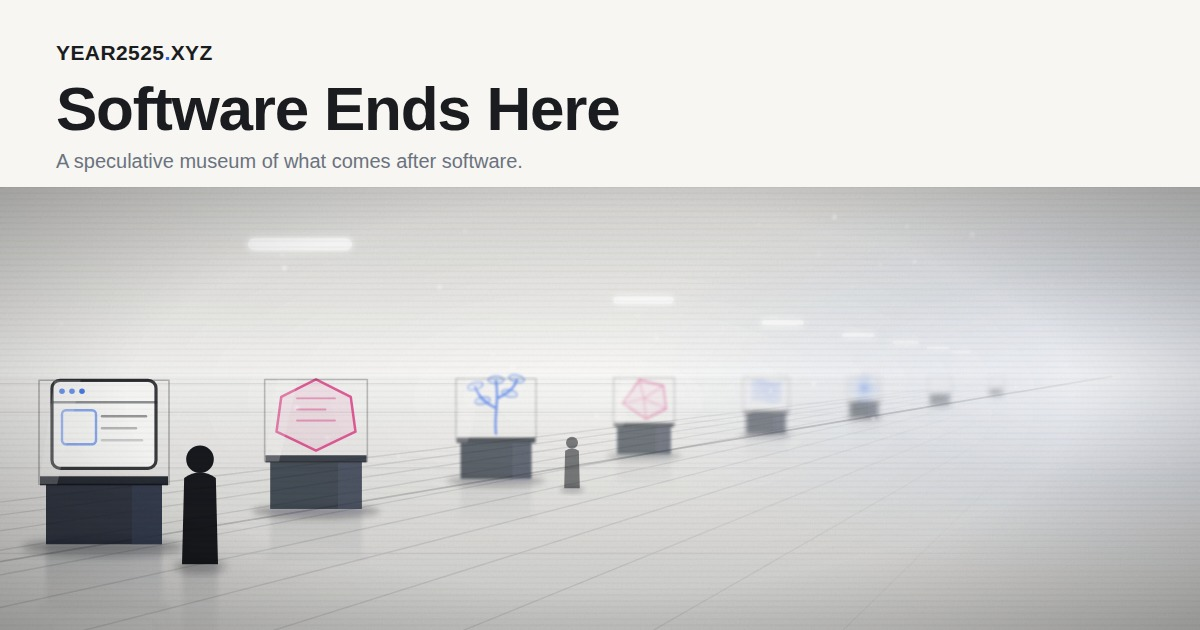
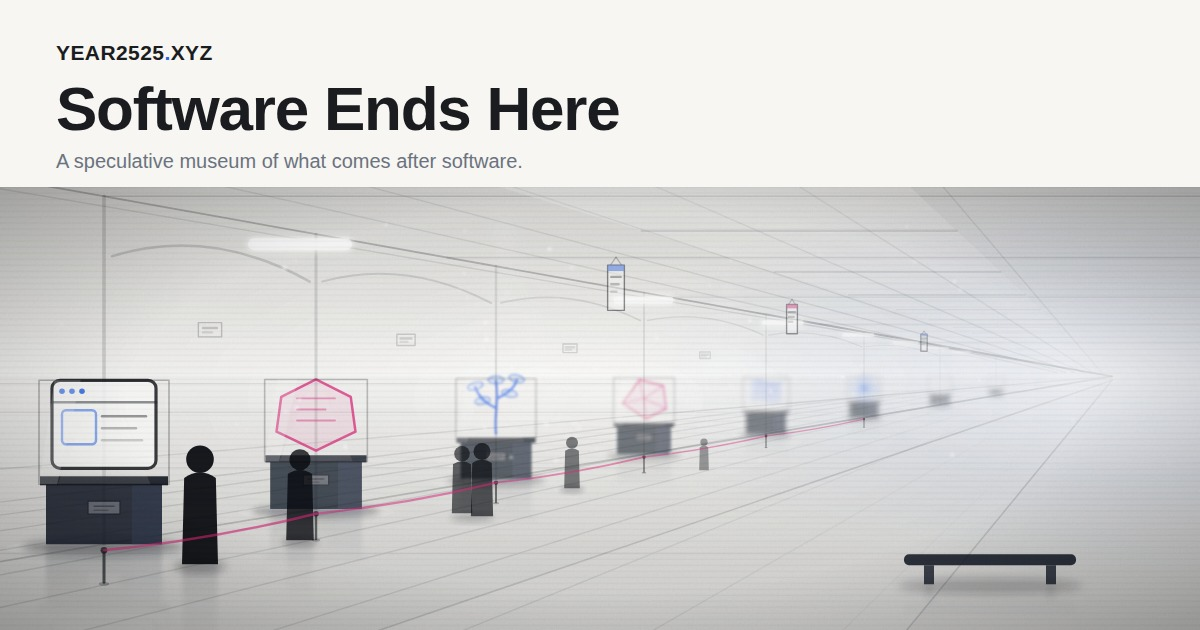
Give the Long Gallery its architecture
The entrance diorama implied a room and drew only a floor: eight cases,
a lamp strip, two figures, and a void where the building should be.
This builds the building.

A coffered ceiling now runs overhead — rays down the gallery axis,
transverse beams bunching toward the horizon — under a skylight strip
ribbed on the same curve, which is where the light was coming from all
along. The left wall gets a cornice with its moulding line, a dado
rail, a pilaster over every station and an arched bay between each
pair, with a placard centred in the nearer bays. A walkway inlay runs
up the middle of the floor, and two volumetric shafts fall from the
skylight through fresh dust.

The museum furniture arrives: a stanchion cordon strung with a single
sagging rope along the case side, drawn over the crowd because it is
nearer; an empty bench in the near right; a light pool and a lamp cone
inside every case; a label plate on each plinth close enough to read.
Visitors now stand at four depths instead of two — one at a case, a
pair mid-gallery, one nearly dissolved — so the recession reads in
bodies as well as vitrines.

Everything derives from the one perspective factor the stations
already used, so depth remains the only fact that decides how present
a thing is. Same palette, same theme variables, same deterministic
seed, same crop-safe band.

og.jpg is regenerated from tools/og-card.html per its own
instructions, since the link-preview card is composed from this scene
[…]

diff --git a/js/artwork.js b/js/artwork.js
@@ -370,8 +370,16 @@
        solid, a weather system, and finally a thing with no edges left. The
        dissolution is literally perspective — each station is smaller,
        paler, softer and less object-like than the one in front of it,
-       until the far end is only light. A visitor at the near end fixes the
-       scale, and the polished floor doubles everything.
+       until the far end is only light.
+
+       The room is built, not implied: a coffered ceiling with a skylight
+       strip running its length, an arched left wall carrying a pilaster
+       over every station and a placard in every near bay, a walkway inlay
+       up the middle of the polished floor, a stanchion cordon along the
+       cases, a bench, and visitors at four depths to fix the scale. Two
+       volumetric shafts fall from the skylight through the dust. Every
+       piece derives from the same perspective factor, so a thing's
+       distance is the only fact that decides how present it is.
 
        This shares the grammar of the other nine scenes but runs high-key,
        like PRESENT: the intro sits inside the light present-day era and
@@ -407,6 +415,80 @@
       }));
       keyLight(sc, "key", VP.x, VP.y, 250, "var(--accent)", 0.20);
 
+      // Shared perspective helpers. Everything in the room — stations,
+      // pilasters, rail posts, banner hangs — derives from this one scale
+      // factor, so a thing's depth decides everything else about it.
+      function S(x) { return (VP.x - x) / (VP.x - NEAR_X); }
+      function wallBase(x) { return VP.y + (NEAR_BASE - VP.y) * S(x); }
+      function wallTop(x) { return VP.y - (VP.y - 14) * S(x); }
+      // Station positions, needed this early because the wall ranges its
+      // pilasters on them.
+      var XS = [52, 158, 248, 322, 383, 432, 470, 498];
+
+      // Coffered ceiling: rays running down the gallery axis, transverse
+      // beams bunching toward the horizon, each beam's left end landing
+      // exactly on the cornice where the wall takes over.
+      var coffer = group({ stroke: "var(--fg)" });
+      for (var cg = 0; cg <= 500; cg += 90) {
+        coffer.appendChild(line(cg, -16, VP.x + (cg - VP.x) * 0.05, VP.y - 2, { opacity: 0.09, "stroke-width": 0.7 }));
+      }
+      [1.0, 0.66, 0.44, 0.29, 0.19].forEach(function (bs) {
+        coffer.appendChild(line(VP.x - (VP.x - NEAR_X) * bs, VP.y - (VP.y - 14) * bs, W + 20, VP.y - (VP.y - 14) * bs, {
+          opacity: 0.13 * bs + 0.03, "stroke-width": 0.7
+        }));
+      });
+      sc.add(coffer);
+
+      // A skylight strip running the length of the room — the light the
+      // lamps only supplement — ribbed on the same bunching curve.
+      sc.add(polygon(pts(["168,-16", "428,-16", VP.x + "," + VP.y]), {
+        fill: sc.linear("skyl", 0, -16, 0, VP.y, [
+          [0, "#ffffff", 0.30], [0.7, "#ffffff", 0.10], [1, "#ffffff", 0]
+        ], true), stroke: "none", style: "mix-blend-mode:screen"
+      }));
+      var ribs = group({ stroke: "var(--fg)" });
+      for (var ri = 1; ri < 9; ri++) {
+        var rs = 1 / (1 + (ri / 8) * 5.2);
+        ribs.appendChild(line(
+          VP.x - (VP.x - 168) * rs, VP.y - (VP.y + 16) * rs,
+          VP.x - (VP.x - 428) * rs, VP.y - (VP.y + 16) * rs,
+          { opacity: 0.15 * rs + 0.02, "stroke-width": 1.5 * rs + 0.3 }
+        ));
+      }
+      sc.add(ribs);
+
+      // The left wall itself: a cornice doubled by a moulding line, a dado
+      // rail at hip height, a pilaster rising over every station and an
+      // arched bay between each pair, with a placard centred in the nearer
+      // bays. This is what makes it architecture instead of a void.
+      var wall = group({ stroke: "var(--fg)" });
+      wall.appendChild(line(0, wallTop(0), VP.x, VP.y, { opacity: 0.26, "stroke-width": 0.9 }));
+      wall.appendChild(line(0, wallTop(0) + 5.5, VP.x, VP.y, { opacity: 0.11, "stroke-width": 0.7 }));
+      wall.appendChild(line(0, VP.y + (146 - VP.y) * S(0), VP.x, VP.y, { opacity: 0.10, "stroke-width": 0.7 }));
+      function spring(x) { return VP.y - (VP.y - 44) * S(x); }
+      XS.forEach(function (px2, pi) {
+        var ps = S(px2);
+        wall.appendChild(line(px2, wallBase(px2), px2, wallTop(px2), {
+          opacity: 0.13 * ps + 0.03, "stroke-width": 1.5 * ps + 0.3
+        }));
+        if (pi >= XS.length - 1) return;
+        var qx = XS[pi + 1], mx = (px2 + qx) / 2, ms = S(mx);
+        wall.appendChild(path(
+          "M" + (px2 + 4 * ps) + " " + spring(px2) +
+          " Q" + mx + " " + (VP.y - (VP.y - 20) * ms) + " " + (qx - 4 * S(qx)) + " " + spring(qx),
+          { opacity: 0.15 * ms + 0.03, "stroke-width": 1.1 * ms + 0.3 }
+        ));
+        if (pi < 4) {
+          var lw = 13 * ms, lh = 8 * ms, ly2 = VP.y - (VP.y - 74) * ms;
+          wall.appendChild(rect(mx - lw / 2, ly2, lw, lh, {
+            fill: "var(--bg2)", "fill-opacity": 0.35, opacity: 0.2 * ms + 0.04, "stroke-width": 0.7
+          }));
+          wall.appendChild(line(mx - lw * 0.3, ly2 + lh * 0.38, mx + lw * 0.3, ly2 + lh * 0.38, { opacity: 0.22 * ms }));
+          wall.appendChild(line(mx - lw * 0.3, ly2 + lh * 0.68, mx + lw * 0.08, ly2 + lh * 0.68, { opacity: 0.15 * ms }));
+        }
+      });
+      sc.add(wall);
+
       // Converging floor lines. Transverse spacing is squared so the
       // courses bunch toward the horizon instead of marching evenly.
       var grid = group({ opacity: 0.12, "stroke-width": 0.7, stroke: "var(--fg)" });
@@ -439,7 +521,16 @@
         stroke: "var(--fg)", "stroke-width": 0.9, opacity: 0.2
       }));
 
-      // A receding run of ceiling lamps: the reason there is light here.
+      // The visitors' walkway: a lighter inlay strip up the middle of the
+      // floor, edged — so the room has a route, not just a surface.
+      sc.add(polygon(pts(["128," + (H + 12), "436," + (H + 12), VP.x + "," + (VP.y + 2)]), {
+        fill: sc.linear("walk", 0, H, 0, VP.y, [[0, "#ffffff", 0.10], [1, "#ffffff", 0]], true),
+        stroke: "none", style: "mix-blend-mode:screen"
+      }));
+      sc.add(line(128, H + 12, VP.x, VP.y + 2, { stroke: "var(--fg)", opacity: 0.15, "stroke-width": 0.8 }));
+      sc.add(line(436, H + 12, VP.x, VP.y + 2, { stroke: "var(--fg)", opacity: 0.15, "stroke-width": 0.8 }));
+
+      // A receding run of ceiling lamps, supplementing the skylight.
       var lamps = group({ filter: sc.bloom("lamp", 1.8) });
       for (var li = 0; li < 7; li++) {
         var lt = li / 6;
@@ -452,6 +543,11 @@
       }
       sc.add(lamps);
 
+      // Two volumetric shafts from the skylight, made visible by the dust
+      // they fall through, pooling on the walkway between stations.
+      shaft(sc, "shaft1", [252, 20], [216, 178], [300, 178], "#ffffff", 0.13, 4);
+      shaft(sc, "shaft2", [364, 46], [336, 162], [396, 162], "#ffffff", 0.09, 3);
+
       /* -- the six stations ------------------------------------------------
          One vitrine per successor state. Scale, baseline height, ink and
          blur all derive from the same perspective factor, so a station's
@@ -459,8 +555,9 @@
       // The last two hold nothing: the gallery keeps going past the point
       // where this page can name what is in the cases.
       var KINDS = ["app", "law", "grow", "fold", "weather", "hum", "gone", "gone"];
-      var XS = [52, 158, 248, 322, 383, 432, 470, 498];
+      // XS is declared above, where the wall ranges its pilasters on it.
       var built = [];
+      var pools = group({ style: "mix-blend-mode:screen" });
 
       KINDS.forEach(function (kind, i) {
         var x = XS[i];
@@ -476,12 +573,31 @@
 
         var pw = 58 * s, ph = 30 * s, px0 = x - pw / 2;
         var top = base - ph;                              // the plinth's top face
+        // The case's size, fixed here so its light cone can be drawn
+        // under the object it illuminates.
+        var gh = 52 * s, gw = pw + 7 * s, gx0 = x - gw / 2;
+        pools.appendChild(ellipse(x, base + 2 * s, pw * 0.85, 5 * s, {
+          fill: "#ffffff", stroke: "none", opacity: 0.12 * s + 0.02
+        }));
         g.appendChild(ellipse(x, base + 1.5 * s, pw * 0.7, 4.5 * s, {
           fill: "#0d1018", stroke: "none", opacity: 0.3, filter: sc.blur("cs" + i, 1.8 * s + 0.4)
         }));
         g.appendChild(rect(px0, top, pw, ph, solid("#131926", 0.86)));
         g.appendChild(rect(px0 + pw * 0.74, top, pw * 0.26, ph, solid("#39445a", 0.5)));
         g.appendChild(rect(px0 - 3 * s, top - 4 * s, pw + 6 * s, 4.5 * s, solid("#080c16", 0.9)));
+        // The case's own lamp: a cone behind the object it lights.
+        g.appendChild(polygon(pts([
+          (x - 3 * s) + "," + (top - gh + 2 * s), (x + 3 * s) + "," + (top - gh + 2 * s),
+          (x + pw * 0.4) + "," + top, (x - pw * 0.4) + "," + top
+        ]), { fill: "#ffffff", stroke: "none", opacity: 0.10, style: "mix-blend-mode:screen" }));
+        // A label plate on the plinth face, for stations near enough to read.
+        if (s > 0.4) {
+          g.appendChild(rect(x - 8 * s, top + ph * 0.28, 16 * s, 6.5 * s, {
+            fill: "var(--bg2)", "fill-opacity": 0.5, stroke: "var(--fg)", "stroke-width": 0.6, opacity: 0.55
+          }));
+          g.appendChild(line(x - 5 * s, top + ph * 0.28 + 2.6 * s, x + 5 * s, top + ph * 0.28 + 2.6 * s, { stroke: "var(--fg)", opacity: 0.45, "stroke-width": 0.7 }));
+          g.appendChild(line(x - 5 * s, top + ph * 0.28 + 4.6 * s, x + 2 * s, top + ph * 0.28 + 4.6 * s, { stroke: "var(--fg)", opacity: 0.3, "stroke-width": 0.7 }));
+        }
 
         // Every era's hero object is authored in the same local box — 46
         // tall, ±26 wide, sitting on y=0 — then placed by the plinth's top
@@ -541,7 +657,6 @@
 
         // The case, over the object. This is what makes it a museum and
         // not a shelf — and losing it further down the row is the point.
-        var gh = 52 * s, gw = pw + 7 * s, gx0 = x - gw / 2;
         g.appendChild(rect(gx0, top - gh, gw, gh, {
           fill: "var(--bg2)", "fill-opacity": 0.14, stroke: "var(--fg)", "stroke-width": 0.8, opacity: 0.3
         }));
@@ -553,13 +668,41 @@
         built.push({ g: g, base: base, s: s });
       });
 
-      // Reflections first so they sit under every station, each mirrored
-      // about its own baseline rather than one shared floor line.
+      // Light pools under the cases go down first, then reflections, so
+      // both sit under every station. Each reflection is mirrored about
+      // its own baseline rather than one shared floor line.
+      sc.add(pools);
       built.forEach(function (b, i) {
         reflect(sc, "r" + i, b.g, b.base, 46 * b.s + 10, 0.16 * b.s + 0.05, 1.1);
       });
       // Then the stations themselves, far to near, so nearer ones occlude.
       for (var k = built.length - 1; k >= 0; k--) sc.add(built[k].g);
+
+      // Hanging banners over the walkway, receding with everything else —
+      // the exhibition's own signage, saying nothing legible.
+      [308, 396, 462].forEach(function (bx, bi) {
+        var bs2 = S(bx);
+        var bt = VP.y - (VP.y + 14) * bs2;
+        var bw = 17 * bs2, bh = 46 * bs2;
+        var bn = group({ opacity: 0.35 + 0.55 * bs2 });
+        bn.appendChild(line(bx - bw * 0.33, bt + 5 * bs2, bx, bt - 3 * bs2, { stroke: "var(--fg)", opacity: 0.4, "stroke-width": 0.6 }));
+        bn.appendChild(line(bx + bw * 0.33, bt + 5 * bs2, bx, bt - 3 * bs2, { stroke: "var(--fg)", opacity: 0.4, "stroke-width": 0.6 }));
+        bn.appendChild(rect(bx - bw / 2, bt + 5 * bs2, bw, bh, {
+          fill: "var(--bg2)", "fill-opacity": 0.8, stroke: "var(--fg)", "stroke-width": 0.7, opacity: 0.8
+        }));
+        bn.appendChild(rect(bx - bw / 2, bt + 5 * bs2, bw, 6 * bs2, {
+          fill: bi === 1 ? "var(--accent2)" : "var(--accent)", "fill-opacity": 0.7, stroke: "none"
+        }));
+        for (var gl = 0; gl < 3; gl++) {
+          bn.appendChild(line(bx - bw * 0.28, bt + (17 + gl * 7.5) * bs2, bx + bw * (0.28 - 0.13 * gl), bt + (17 + gl * 7.5) * bs2, {
+            stroke: "var(--fg)", opacity: 0.5 - gl * 0.12
+          }));
+        }
+        sc.add(bn);
+      });
+
+      // Dust hanging where the shafts make it visible.
+      motes(sc, 24, 212, 40, 302, 172, "#ffffff", 1.3);
 
       // The far end, erased. Everything within reach of the vanishing
       // point loses its edges to the light it is receding into.
@@ -569,15 +712,54 @@
         ]), stroke: "none"
       }));
 
-      // Two visitors, for scale. Without them the vitrines could be any
-      // size at all, and the gallery stops being a room.
+      // Visitors at four depths, for scale: one near, fixing the size of
+      // everything; one stopped at a case; a pair mid-gallery; and two
+      // nearly dissolved into the far light.
       var near = figure(100, 198, 60, { opacity: 0.92 });
       sc.add(ellipse(100, 199, 13, 3.4, { fill: "#0d1018", stroke: "none", opacity: 0.28, filter: sc.blur("f1s", 2) }));
       reflect(sc, "fr1", near, 198, 44, 0.16, 1.2);
       sc.add(near);
+      var atCase = figure(150, 186, 46, { opacity: 0.78 });
+      sc.add(ellipse(150, 186.8, 9, 2.4, { fill: "#0d1018", stroke: "none", opacity: 0.24, filter: sc.blur("f3s", 1.6) }));
+      reflect(sc, "fr3", atCase, 186, 32, 0.13, 1.2);
+      sc.add(atCase);
+      sc.add(ellipse(236, 174.8, 11, 2.2, { fill: "#0d1018", stroke: "none", opacity: 0.2, filter: sc.blur("f4s", 1.6) }));
+      sc.add(figure(231, 172.5, 34, { opacity: 0.6 }));
+      sc.add(figure(241, 174, 37, { opacity: 0.66 }));
       var far = figure(286, 160, 26, { opacity: 0.5 });
       sc.add(ellipse(286, 160.6, 6, 1.7, { fill: "#0d1018", stroke: "none", opacity: 0.22, filter: sc.blur("f2s", 1.2) }));
       sc.add(far);
+      sc.add(figure(352, 151, 16, { opacity: 0.36 }));
+
+      // The cordon: stanchions along the case side of the walkway, strung
+      // with a single sagging rope. Nearer than the crowd, so it goes over.
+      var rail = group(null);
+      var tops = [];
+      for (var si = 0; si < 6; si++) {
+        var rx2 = XS[si], rs2 = S(rx2);
+        var rb = VP.y + (207 - VP.y) * rs2, rh2 = 16 * rs2;
+        rail.appendChild(ellipse(rx2, rb + 0.8 * rs2, 2.6 * rs2, 0.9 * rs2, { fill: "#0d1018", stroke: "none", opacity: 0.25 }));
+        rail.appendChild(line(rx2, rb, rx2, rb - rh2, { stroke: "var(--fg)", "stroke-width": 1.3 * rs2 + 0.2, opacity: 0.35 + 0.35 * rs2 }));
+        rail.appendChild(circle(rx2, rb - rh2, 1.5 * rs2 + 0.2, solid("var(--fg)", 0.45 + 0.3 * rs2)));
+        tops.push([rx2, rb - rh2, rs2]);
+      }
+      for (var ci = 0; ci < tops.length - 1; ci++) {
+        rail.appendChild(cable(tops[ci][0], tops[ci][1], tops[ci + 1][0], tops[ci + 1][1],
+          4.5 * (tops[ci][2] + tops[ci + 1][2]) / 2, {
+            stroke: "var(--accent2)", "stroke-width": tops[ci][2] + 0.25, opacity: 0.3 + 0.3 * tops[ci][2]
+          }));
+      }
+      sc.add(rail);
+
+      // A bench, empty, in the near right — the one piece of furniture
+      // museums never change, in any of the rooms this page invents.
+      var bench = group(null);
+      bench.appendChild(rect(452, 193, 86, 5.5, { rx: 2.5, fill: "#131926", "fill-opacity": 0.88, stroke: "none" }));
+      bench.appendChild(rect(462, 198.5, 5, 9.5, solid("#131926", 0.8)));
+      bench.appendChild(rect(523, 198.5, 5, 9.5, solid("#131926", 0.8)));
+      sc.add(ellipse(495, 208.8, 46, 4, { fill: "#0d1018", stroke: "none", opacity: 0.22, filter: sc.blur("bsh", 2.4) }));
+      reflect(sc, "benchr", bench, 208, 18, 0.14, 1.2);
+      sc.add(bench);
 
       // Dust, kept to the darkened upper half where white specks read.
       var dust = group({ filter: sc.blur("dust-b", 0.6) });
